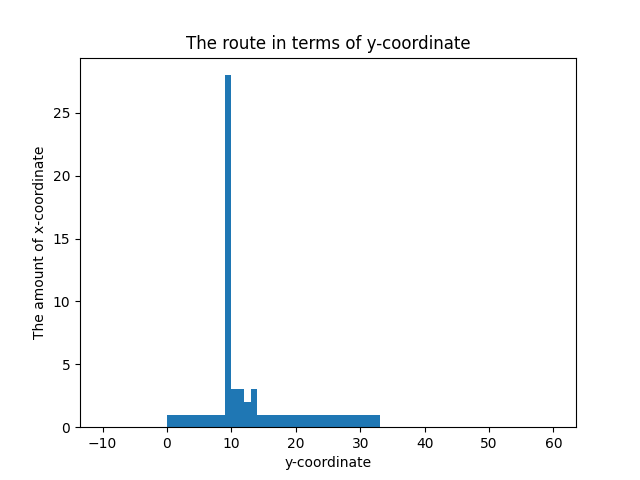
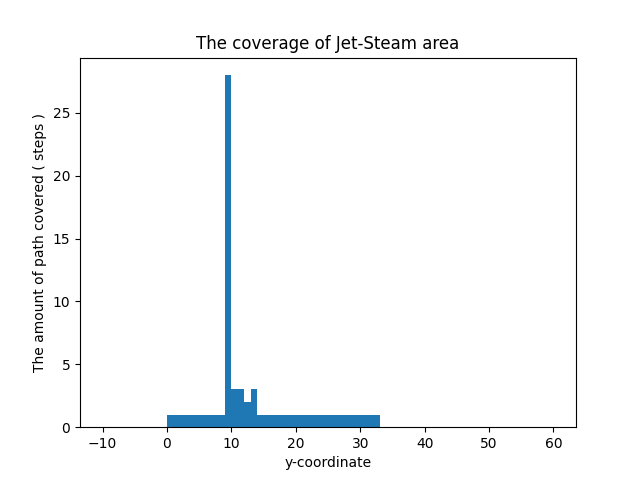
change graph
rename the graph for task 2

Changed region(s): [[0.2812, 0.0625, 0.75, 0.125], [0.0312, 0.25, 0.0938, 0.7812]]

diff --git a/Task_2/Prove-best-JS.area.py b/Task_2/Prove-best-JS.area.py
@@ -366,10 +366,10 @@ def main():
     rx, ry, Tbest = a_star.planning(sx, sy, gx, gy)
     #print(Tbest)
     plt.hist(ry,range(-10,61), rwidth= 1, align='mid')#'range(-10,61)' as 61 is excluded
-    plt.title("The route in terms of y-coordinate")
+    plt.title("The coverage of Jet-Steam area")
     plt.xlabel('y-coordinate')
-    plt.ylabel('The amount of x-coordinate')
-    #plt.savefig('images/Prove_jetSteam_area.png')
+    plt.ylabel('The amount of path covered ( steps )')
+    plt.savefig('images/Prove_jetSteam_area.png')
     plt.show()
     #calc for the input scenario
     
